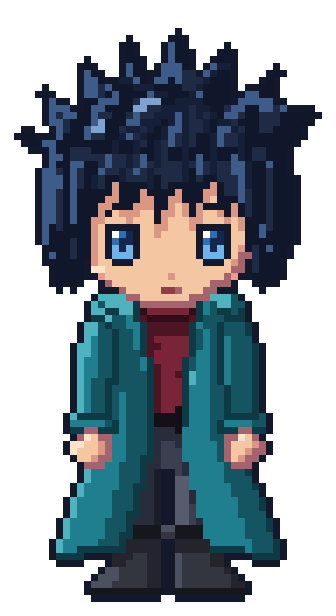
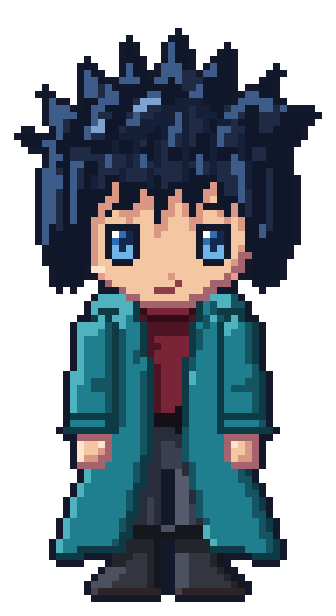
Herói pixel art: ajustes da direção de arte (luz do casaco, pernas, botas, mãos, limpeza)
Cabelo de fundo um tom abaixo (3 níveis), menos fios soltos no topo; casaco com
sombra estreita e sombra interna na abertura; mangas iguais com dobra do cotovelo
e punho em sino; pernas separadas com joelhos; sola própria; polegar e vinco nas
mãos; boca com um canto levantado; limpeza de pixel isolado.

Claude-Session: https://claude.ai/code/session_013vLqrVyPBNyjBLYS91kN9N

diff --git a/public/pixelHero.js b/public/pixelHero.js
@@ -70,15 +70,16 @@ function bodyParts() {
   const quadril = poly([[24, 63], [40, 63], [40.3, 71], [23.7, 71]]);
   const pernaE = poly([[23.7, 70], [31.4, 70], [31, 83], [24.5, 83]]);
   P.push(part('calca', 'calca', or(quadril, pernaE, poly(mir([[23.7, 70], [31.4, 70], [31, 83], [24.5, 83]])).map((v) => v)), PAL.calca,
-    { shade: { l: [-2, -1], s: [2, 0], d: [1, 0] }, recv: true, marks: [[27, 75, 2], [28, 76, 2], [36, 74, 2], [37, 75, 2]] }));
+    { shade: { l: [-2, 0], s: [1, 0] }, recv: true, marks: [[26, 75, 0], [27, 75, 0], [26, 76, 0], [34, 75, 0], [35, 75, 0], [34, 76, 0], [28, 77, 2], [36, 77, 2]] }));
 
   // Botas: cano com punho dobrado, bico para fora, sola escura.
   const botaE = [[24, 80], [31.4, 80], [31.4, 89], [21.2, 89], [21.6, 86.4], [23.6, 85.2]];
   P.push(part('bota', 'sapato', or(poly(botaE), poly(mir(botaE))), PAL.sapato,
-    { shade: { l: [-1, -2], s: [2, 1], d: [0, 1] }, recv: true }));
+    { shade: { l: [-2, -1], s: [2, 0], d: [1, 0] }, recv: true }));
+  P.push(part('sola', 'sapato', and(or(poly(botaE), poly(mir(botaE))), rows(87.6, 90)), ['#4a4045', '#2c2427', '#2c2427', '#1a1416'], { shade: { l: [-1, 0] }, group: 'sola', sep: false }));
   const punhoE = [[23.4, 79], [31.6, 79], [31.6, 81.4], [23.4, 81.4]];
   P.push(part('punho_bota', 'sapato', or(poly(punhoE), poly(mir(punhoE))), PAL.sapato,
-    { shade: { l: [0, -1], s: [2, 0] }, group: 'punho_bota' }));
+    { shade: { l: [0, -1], s: [2, 0], d: [0, 1] }, group: 'punho_bota' }));
 
   // Pescoço e tronco (camisa vinho com gola alta), faixa na cintura.
   P.push(part('pescoco', 'corpo', poly([[28, 44], [36, 44], [36, 51], [28, 51]]), PAL.pele, { shade: { s: [2, 0] }, recv: true, group: 'pele' }));
@@ -94,25 +95,25 @@ function bodyParts() {
   const fora = [[32, 47.4], [26.6, 47.4], [23.4, 48.4], [21.6, 50.6], [21.6, 55], [22.4, 62], [22, 70], [32, 70]];
   const abertura = poly([[27.6, 47], [36.4, 47], [34.4, 56], [33.6, 63], [34.4, 71], [29.6, 71], [30.4, 63], [29.6, 56]]);
   P.push(part('casaco', 'casaco', minus(sym(fora), abertura), PAL.casaco,
-    { shade: { l: [-1, -3], s: [4, 0], d: [1, 1] }, recv: true }));
+    { shade: { l: [-1, -3], s: [2, 0], d: [1, 1] }, recv: true }));
   // Lapelas: dobra do tecido ao longo da abertura, com o vinco escuro do lado de dentro.
   const lapE = [[25, 47.4], [27.8, 47], [29.8, 56], [29.2, 59], [26.8, 52]];
   P.push(part('lapela_e', 'casaco', poly(lapE), PAL.casaco, { shade: { l: [0, -2], d: [1, 0] }, group: 'casaco', sep: false }));
   P.push(part('lapela_d', 'casaco', poly(mir(lapE)), PAL.casaco, { shade: { s: [1, 0], d: [-1, 0] }, group: 'casaco', sep: false }));
   // Barra: duas abas soltas e um pouco abertas em sino (cada uma vai balançar sozinha nas animações).
   const abaE = [[22.4, 64.6], [30.6, 64.6], [29.6, 70], [28, 76], [26, 82.6], [21, 83.4], [15.6, 84.2], [18.6, 75]];
-  P.push(part('aba_e', 'casaco', poly(abaE), PAL.casaco, { shade: { l: [-1, 0], s: [4, 0], d: [1, 1] }, group: 'casaco', sep: false }));
-  P.push(part('aba_d', 'casaco', poly(mir(abaE)), PAL.casaco, { shade: { s: [4, 0], d: [1, 1] }, group: 'casaco', sep: false }));
+  P.push(part('aba_e', 'casaco', poly(abaE), PAL.casaco, { shade: { l: [-1, 0], s: [2, 0], d: [1, 1] }, group: 'casaco', sep: false }));
+  P.push(part('aba_d', 'casaco', poly(mir(abaE)), PAL.casaco, { shade: { l: [-1, 0], s: [2, 0], d: [1, 1] }, group: 'casaco', sep: false }));
 
   // Braços: mangas largas e fofas, com a dobra do cotovelo, punho dobrado e a mão fechada.
-  const mangaE = [[22.6, 48.6], [25, 51], [24.6, 58], [24.2, 63.6], [18.6, 63.6], [18.6, 56.6], [20, 50.6]];
-  P.push(part('manga_e', 'casaco', poly(mangaE), PAL.casaco, { shade: { l: [-1, -2], s: [3, 1], d: [1, 1] }, group: 'manga' }));
-  P.push(part('manga_d', 'casaco', poly(mir(mangaE)), PAL.casaco, { shade: { l: [0, -2], s: [4, 1], d: [1, 1] }, group: 'manga' }));
-  const punhoMangaE = [[18.4, 62.6], [24.4, 62.6], [24.6, 66], [18, 66]];
+  const mangaE = [[22.6, 48.2], [25.2, 50.4], [24.6, 57], [24.8, 63.6], [17.8, 63.6], [18.6, 56.6], [19.4, 50.4]];
+  P.push(part('manga_e', 'casaco', poly(mangaE), PAL.casaco, { shade: { l: [-1, -2], s: [2, 1], d: [1, 1] }, group: 'manga', strokes: [[2, [[20, 57], [22, 58]]], [2, [[21, 59], [23, 59]]]] }));
+  P.push(part('manga_d', 'casaco', poly(mir(mangaE)), PAL.casaco, { shade: { l: [-1, -2], s: [2, 1], d: [1, 1] }, group: 'manga', strokes: [[2, [[42, 57], [44, 58]]], [2, [[41, 59], [43, 59]]]] }));
+  const punhoMangaE = [[17.8, 62.6], [25, 62.6], [25.4, 66], [17.4, 66]];
   P.push(part('punho_e', 'casaco', poly(punhoMangaE), PAL.casaco, { shade: { l: [0, -1], s: [2, 1], d: [0, 1] }, group: 'punho' }));
   P.push(part('punho_d', 'casaco', poly(mir(punhoMangaE)), PAL.casaco, { shade: { l: [0, -1], s: [2, 1], d: [0, 1] }, group: 'punho' }));
-  P.push(part('mao_e', 'corpo', ell(21.2, 68.2, 2.9, 2.8), PAL.pele, { shade: { l: [-1, -1], s: [2, 1], d: [1, 1] }, group: 'mao', recv: true }));
-  P.push(part('mao_d', 'corpo', ell(42.8, 68.2, 2.9, 2.8), PAL.pele, { shade: { l: [-1, -1], s: [2, 1], d: [1, 1] }, group: 'mao', recv: true }));
+  P.push(part('mao_e', 'corpo', ell(21.4, 68.4, 2.8, 2.9), PAL.pele, { shade: { l: [-1, -1], s: [2, 1], d: [1, 1] }, group: 'mao', recv: true, marks: [[20, 69, 2], [21, 69, 2], [22, 67, 0]] }));
+  P.push(part('mao_d', 'corpo', ell(42.6, 68.4, 2.8, 2.9), PAL.pele, { shade: { l: [-1, -1], s: [2, 1], d: [1, 1] }, group: 'mao', recv: true, marks: [[42, 69, 2], [43, 69, 2], [41, 67, 0]] }));
 
   // Cabeça: crânio largo e queixo macio; orelhas.
   // Orelhas: ficam sob as mechas laterais na vista de frente (entram nas vistas de lado/3/4).
@@ -141,7 +142,7 @@ export function faceStamps() {
   // Sobrancelhas de 1 px, levemente arqueadas.
   for (const [x, y] of [[23, 34], [24, 33], [25, 33], [26, 33], [37, 33], [38, 33], [39, 33], [40, 34]]) put('olhos', x, y, PAL.cabelo[2]);
   put('boca', 32, 43, PAL.pele[2]); // nariz: 1 px de sombra
-  put('boca', 31, 45, PAL.boca); put('boca', 32, 45, PAL.boca); put('boca', 33, 45, PAL.pele[3]);
+  put('boca', 30, 45, PAL.boca); put('boca', 31, 45, PAL.boca); put('boca', 32, 45, PAL.boca); put('boca', 33, 44, PAL.boca);
   for (const [x, y] of [[21, 43], [22, 43], [41, 43], [42, 43]]) put('boca', x, y, PAL.blush);
   return px;
 }
@@ -152,7 +153,8 @@ export function faceStamps() {
 // borda de "capacete" entre a calota e a franja. As mechas aparecem pelos fios (traços de sombra que saem do
 // redemoinho e descem até o vão entre as pontas) e pelas pontas da silhueta e da franja.
 const FIO = '#161f38';
-const back = (ry = 14.6) => part('cabelo_tras', 'cabelo', or(ell(32, 31, 16.4, ry), sym([[32, 30], [15.6, 32], [16.4, 43.6], [19.4, 45.4], [20, 38]])), PAL.cabelo,
+const back = (ry = 14.6) => part('cabelo_tras', 'cabelo', or(ell(32, 31, 16.4, ry), sym([[32, 30], [15.6, 32], [16.4, 43.6], [19.4, 45.4], [20, 38]])),
+  [PAL.cabelo[1], PAL.cabelo[2], PAL.cabelo[2], PAL.cabelo[2]],
   { shade: { l: [-2, -2], s: [3, 1], d: [1, 1] }, group: 'cabelo', sep: false });
 function hairFront({ dome = [32, 30.6, 16.6, 14.2], tufts, fringe, sides, strands, lights = [], crown = CROWN }) {
   const mask = or(and(ell(...dome), rows(0, 27)), ...tufts.map(poly), poly(fringe), ...sides.map(poly));
@@ -233,7 +235,7 @@ export const HAIR = {
         [29, 30.4], [26.2, 34.6], [24.6, 30], [21.8, 34], [20.8, 30], [18.8, 32.4], [17.4, 29]],
       sides: SIDES,
       strands: [[[33, 18], [25, 23], [20.8, 30]], [[33, 18], [27, 24], [24.6, 30]], [[33, 18], [30, 25], [29, 30.4]], [[34, 18], [34, 25], [33.4, 30.4]],
-        [[35, 18], [38, 24], [38.4, 30]], [[36, 18], [42, 23], [43, 30]], [[31, 17], [24, 14.6]], [[35, 17], [40, 12.6]], ...SIDE_STRANDS],
+        [[35, 18], [38, 24], [38.4, 30]], [[36, 18], [42, 23], [43, 30]], ...SIDE_STRANDS],
       lights: [[[23, 26], [22, 28]], [[28, 26], [27, 28]], [[36, 26], [36, 28]], [[41, 26], [41, 28]]],
     })],
   }),
@@ -313,6 +315,25 @@ export function renderHeroFront(hairKey = 'A') {
     }
   }
   for (const i of seps) { col[i] = parts[own[i]].pal[3]; tone[i] = 3; }
+
+  // Sombra interna do casaco: a borda que dá para a abertura (camisa, faixa, calça) fica no tom de sombra.
+  const inner = new Set(['camisa', 'calca', 'acessorio']);
+  const fill = [];
+  for (let y = 0; y < H; y++) for (let x = 1; x < W - 1; x++) {
+    const i = y * W + x; if (own[i] < 0 || parts[own[i]].group !== 'casaco' || tone[i] === 3) continue;
+    for (const dx of [-1, 1]) { const j = i + dx; if (own[j] >= 0 && inner.has(parts[own[j]].layer)) { fill.push(i); break; } }
+  }
+  for (const i of fill) { col[i] = parts[own[i]].pal[2]; tone[i] = 2; }
+
+  // Limpeza: pixel isolado (cor diferente dos 4 vizinhos, 3 deles iguais entre si e da mesma peça) vira o vizinho.
+  for (let pass = 0; pass < 2; pass++) for (let y = 1; y < H - 1; y++) for (let x = 1; x < W - 1; x++) {
+    const i = y * W + x; if (!col[i]) continue;
+    const nb = [i - 1, i + 1, i - W, i + W];
+    if (nb.some((j) => col[j] === col[i])) continue;
+    const cnt = {}; for (const j of nb) if (col[j] && own[j] === own[i]) cnt[col[j]] = (cnt[col[j]] || 0) + 1;
+    const best = Object.entries(cnt).find(([, n]) => n >= 3);
+    if (best) { col[i] = best[0]; tone[i] = parts[own[i]].pal.indexOf(best[0]); }
+  }
 
   // Brilho do cabelo: arco de 2 px acompanhando a curva do alto da cabeça (só no tom de luz/base).
   const layerOf = new Array(W * H).fill(null);
